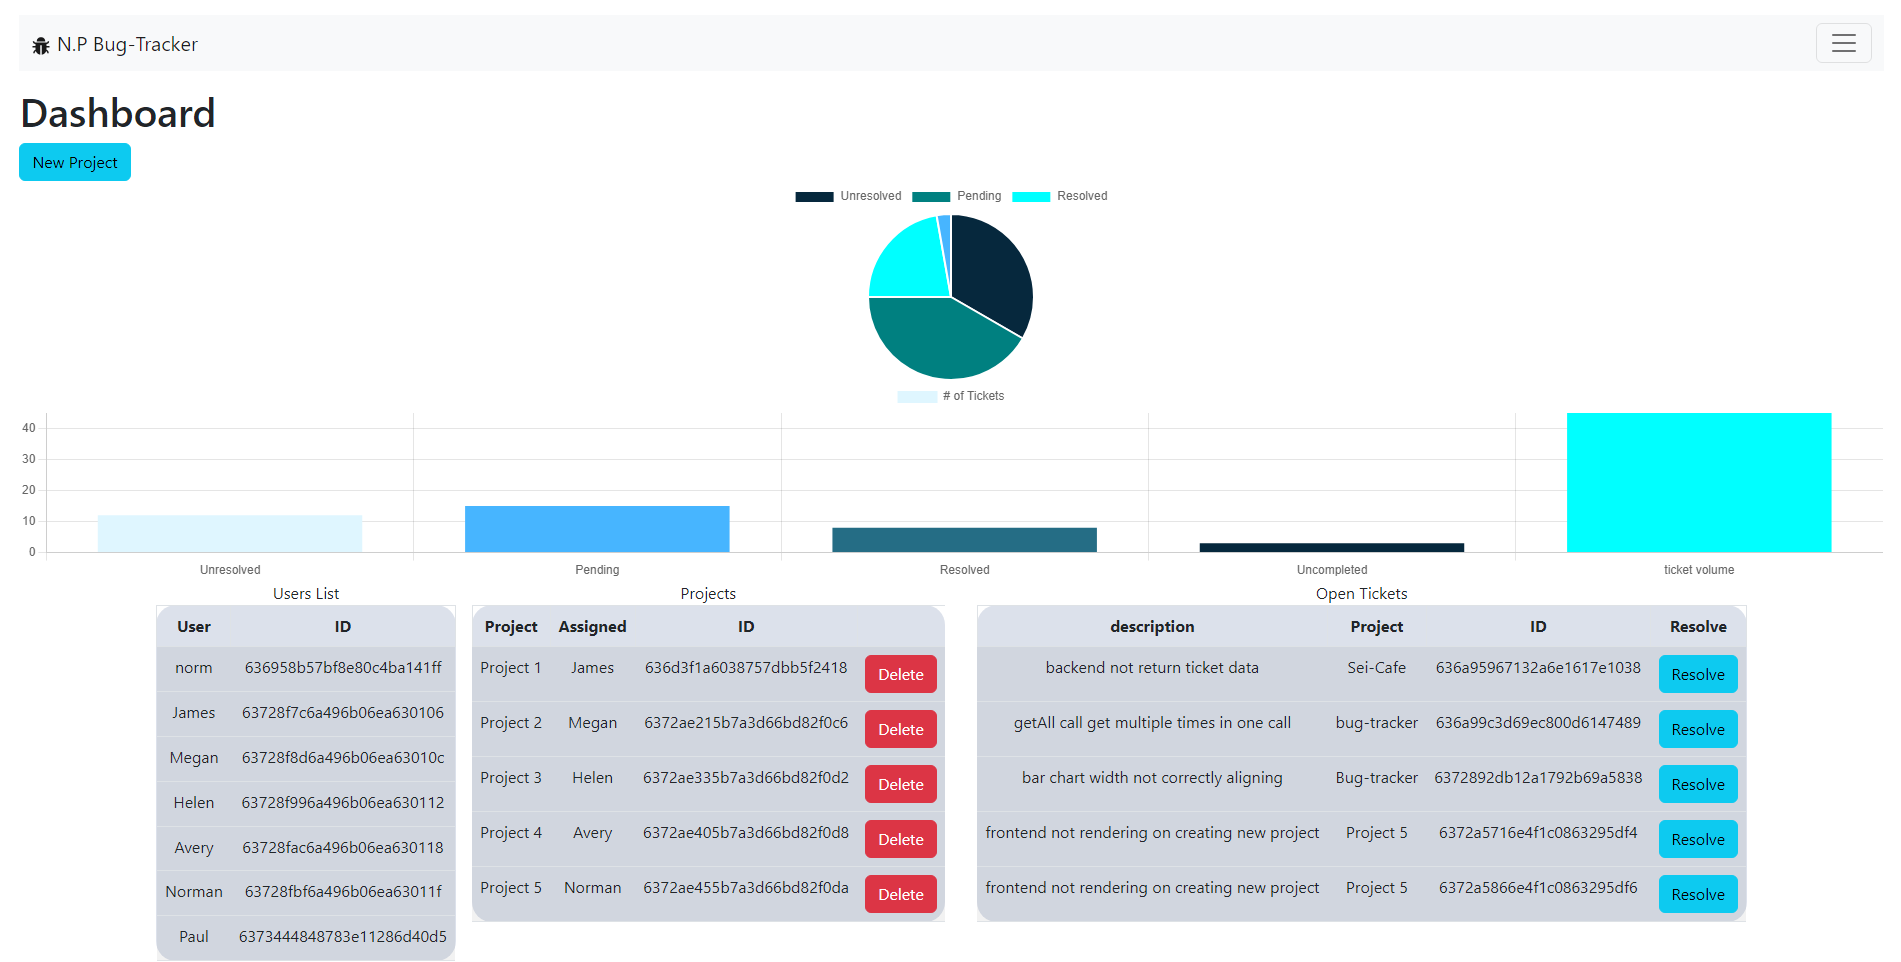
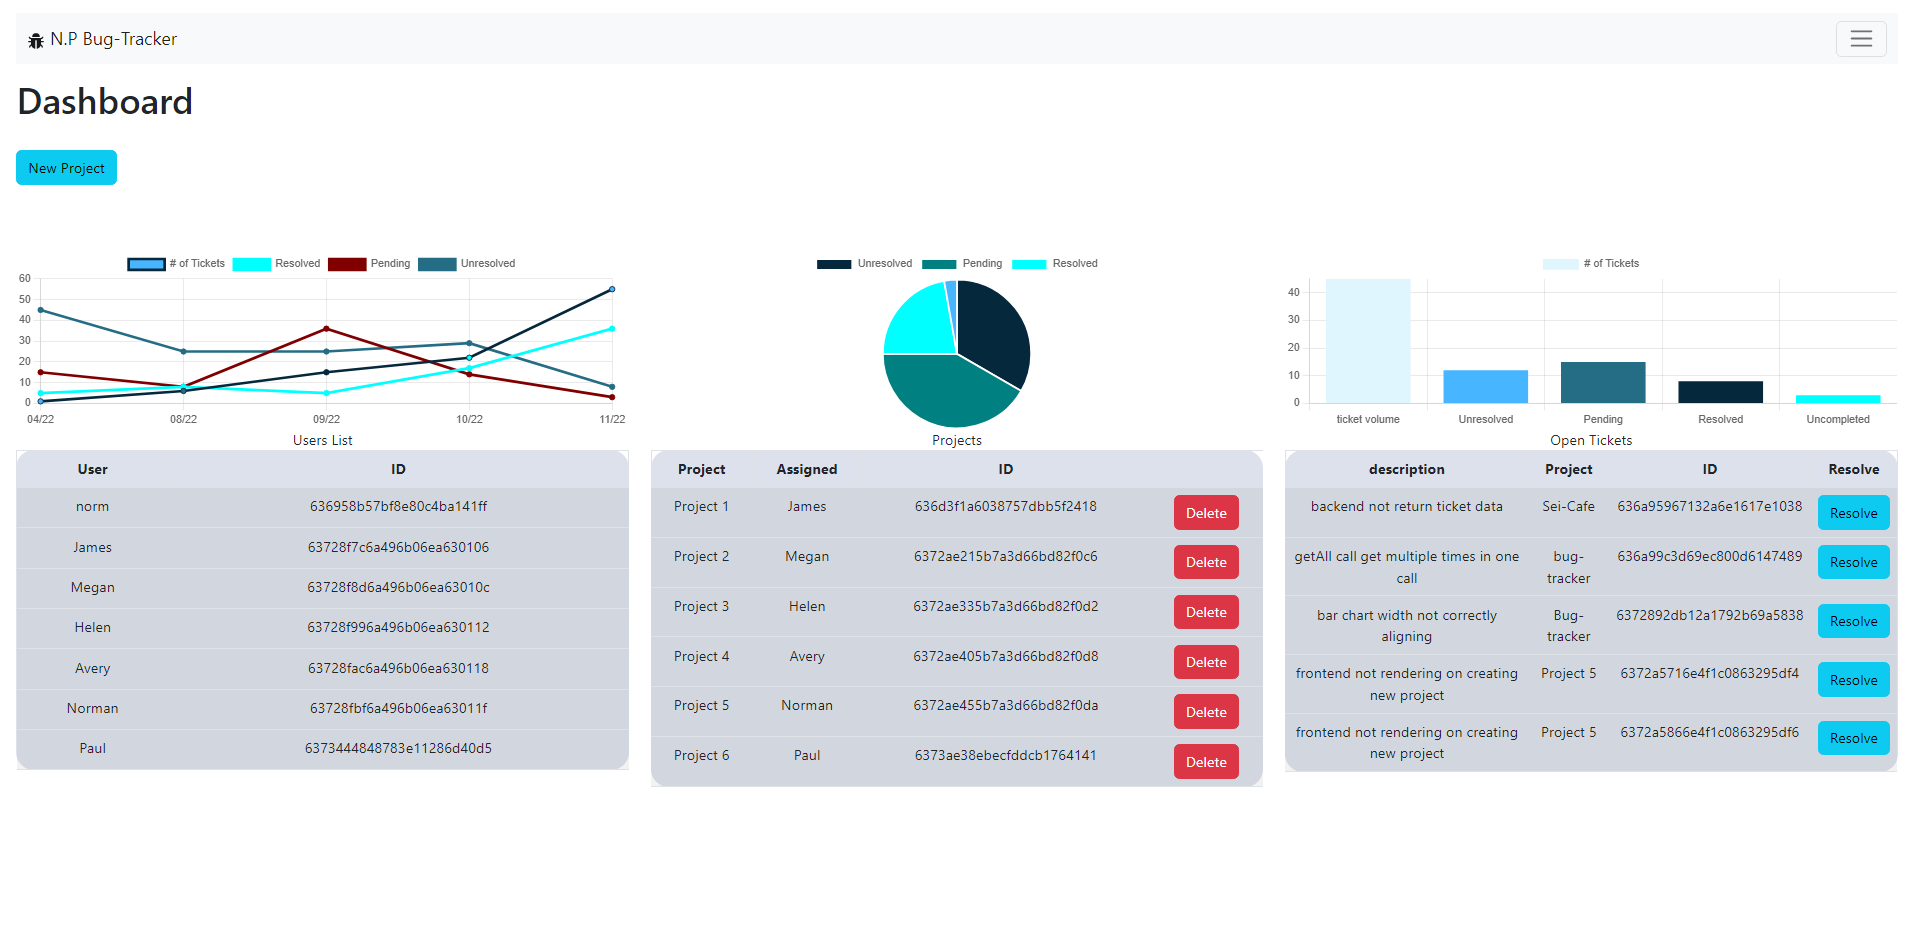
added line graph

diff --git a/src/components/LineChart/LineChart.js b/src/components/LineChart/LineChart.js
@@ -1,0 +1,63 @@
+import React from 'react';
+// import {Chart} from 'chart.js'
+import { Pie, Bar, Line } from 'react-chartjs-2';
+import {useState, useEffect} from "react";
+import {Chart as Chartjs} from "chart.js/auto"
+
+const LineChart = (chartData) => {
+   
+  return (
+    <div>
+        <Line
+        height={200}
+        width={50}
+        options={{
+            responsive: true,
+          maintainAspectRatio: false,
+          scales: {
+            xAxes:[
+                {
+                    barThickness:12,
+                    categorySpacing: 0
+                }
+            ]
+          }
+        }}
+        data={{
+          labels: [`04/22`, `08/22`, `09/22`,`10/22`, `11/22`, ],
+          datasets: [
+            {
+              label: "# of Tickets", 
+              data: [1, 6, 15, 22, 55, 55],
+              borderColor: `#06283D`,
+              backgroundColor: [
+                `#47B5FF`,`#256D85`, `#06283D`, `cyan`
+              ]
+            },
+            {
+                label: 'Resolved',
+                data: [5,8,5, 17 ,36],
+                borderColor: 'cyan',
+                backgroundColor: 'cyan',
+            },
+            {
+                label: 'Pending',
+                data: [15,8,36, 14 ,3],
+                borderColor: 'maroon',
+                backgroundColor: 'maroon',
+            },
+            {
+                label: 'Unresolved',
+                data: [45,25,25, 29 ,8],
+                borderColor: '#256D85',
+                backgroundColor: '#256D85',
+            }
+          ]
+        }}
+        />
+    </div>
+    
+  )
+}
+
+export default LineChart

diff --git a/src/components/BarChart/BarChart.js b/src/components/BarChart/BarChart.js
@@ -24,11 +24,11 @@ const BarChart = (chartData) => {
           }
         }}
         data={{
-          labels: [`Unresolved`, `Pending`,`Resolved`, `Uncompleted`, `ticket volume`],
+          labels: [`ticket volume`, `Unresolved`, `Pending`,`Resolved`, `Uncompleted`, ],
           datasets: [
             {
-              label: "# of Tickets",
-              data: [12, 15, 8, 3, 45],
+              label: "# of Tickets", 
+              data: [45, 12, 15, 8, 3,],
               backgroundColor: [
                 `#DFF6FF`,`#47B5FF`,`#256D85`, `#06283D`, `cyan`
               ]

diff --git a/src/components/TicketList/TicketList.js b/src/components/TicketList/TicketList.js
@@ -5,7 +5,7 @@ import Table from 'react-bootstrap/Table';
 import Button from 'react-bootstrap/Button';
 import Dropdown from 'react-bootstrap/Dropdown';
 import DropdownButton from 'react-bootstrap/DropdownButton';
-
+import BarChart from '../../components/BarChart/BarChart.js';
 const TicketList = () => {
     const [data, setData] = useState([])
 
@@ -42,6 +42,7 @@ const TicketList = () => {
 
   return (
       <div>
+<BarChart/>
       <div className='ticket-list'>Open Tickets</div>      
         <Table striped bordered hover>
       <thead>

diff --git a/src/pages/Dashboard.js b/src/pages/Dashboard.js
@@ -24,10 +24,12 @@ const Dashboard = () => {
     return(
         <div className="dashboard-container">
             <h1>Dashboard</h1>
+            <br/>
             {userAdmin == true ?
             <Button variant='info' onClick={()=> setButtonPopup(true)}>New Project</Button>: false }
-            <PieCharts />
-            <BarChart/>
+            <br/><br/><br/><br/>
+            {/* <PieCharts /> */}
+            {/* <BarChart/> */}
         <div className='dashboard'>
             <UserList/>
             <ProjectList />

diff --git a/src/components/ProjectForm/ProjectForm.js b/src/components/ProjectForm/ProjectForm.js
@@ -41,7 +41,7 @@ export default function TicketForm(props) {
   }
 
   const handleSubmit = async (evt) => {
-    evt.preventDefault()
+    // evt.preventDefault()
     try{
         const formData = {
             project_name: state.project_name,
@@ -50,7 +50,7 @@ export default function TicketForm(props) {
         console.log(formData)
         const project = await newProject(formData)
         console.log(project)    
-        
+
         // props.setTrigger() = false;
 
     } catch (error){

diff --git a/src/components/UserList/UserList.js b/src/components/UserList/UserList.js
@@ -2,6 +2,7 @@ import React from 'react'
 import {getAllUsers} from "../../utilities/users-api"
 import {useState, useEffect} from "react"
 import Table from 'react-bootstrap/Table';
+import LineChart from "../../components/LineChart/LineChart"
 
 const UserList = () => {
     const [userData, setUserData] = useState("")
@@ -21,6 +22,7 @@ const UserList = () => {
   return (
     <>
     <div>
+        <LineChart/>
     <div>Users List</div>   
       <Table striped bordered hover>
     <thead>

diff --git a/src/components/ProjectList/ProjectList.js b/src/components/ProjectList/ProjectList.js
@@ -4,6 +4,7 @@ import {getAll, getById, removeProject} from "../../utilities/projects-api.js"
 import Table from 'react-bootstrap/Table';
 import Button from 'react-bootstrap/Button';
 import "./ProjectList.module.css"
+import PieCharts from '../PieCharts/PieCharts.js';
 
 
 const ProjectList = () => {
@@ -32,6 +33,7 @@ const ProjectList = () => {
 
   return (
       <div className='container=project'>
+      <PieCharts/>
       <div>Projects</div>
       
      <Table striped bordered hover>
